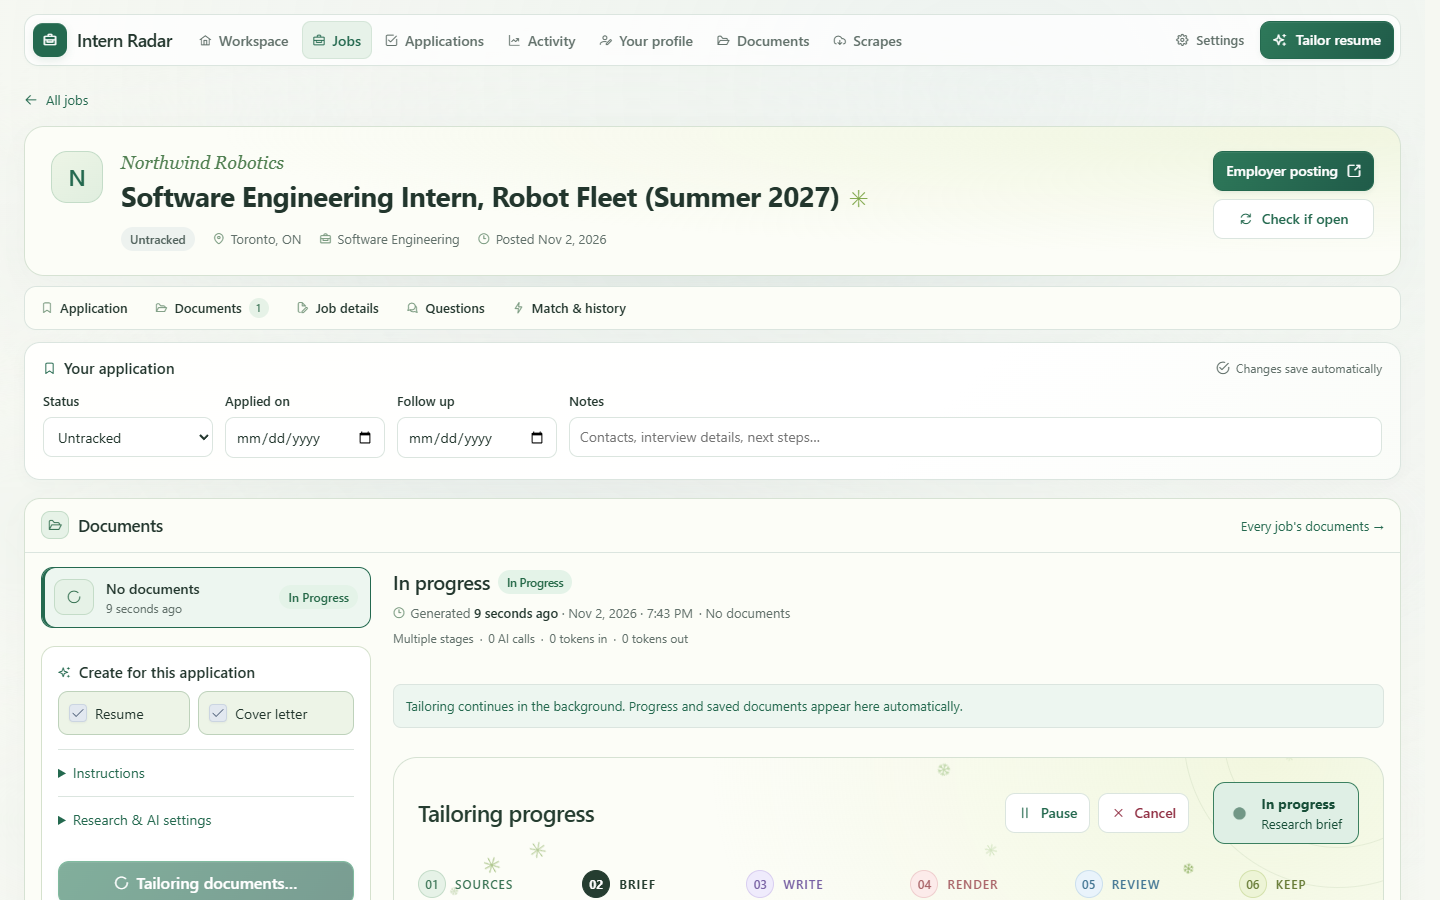
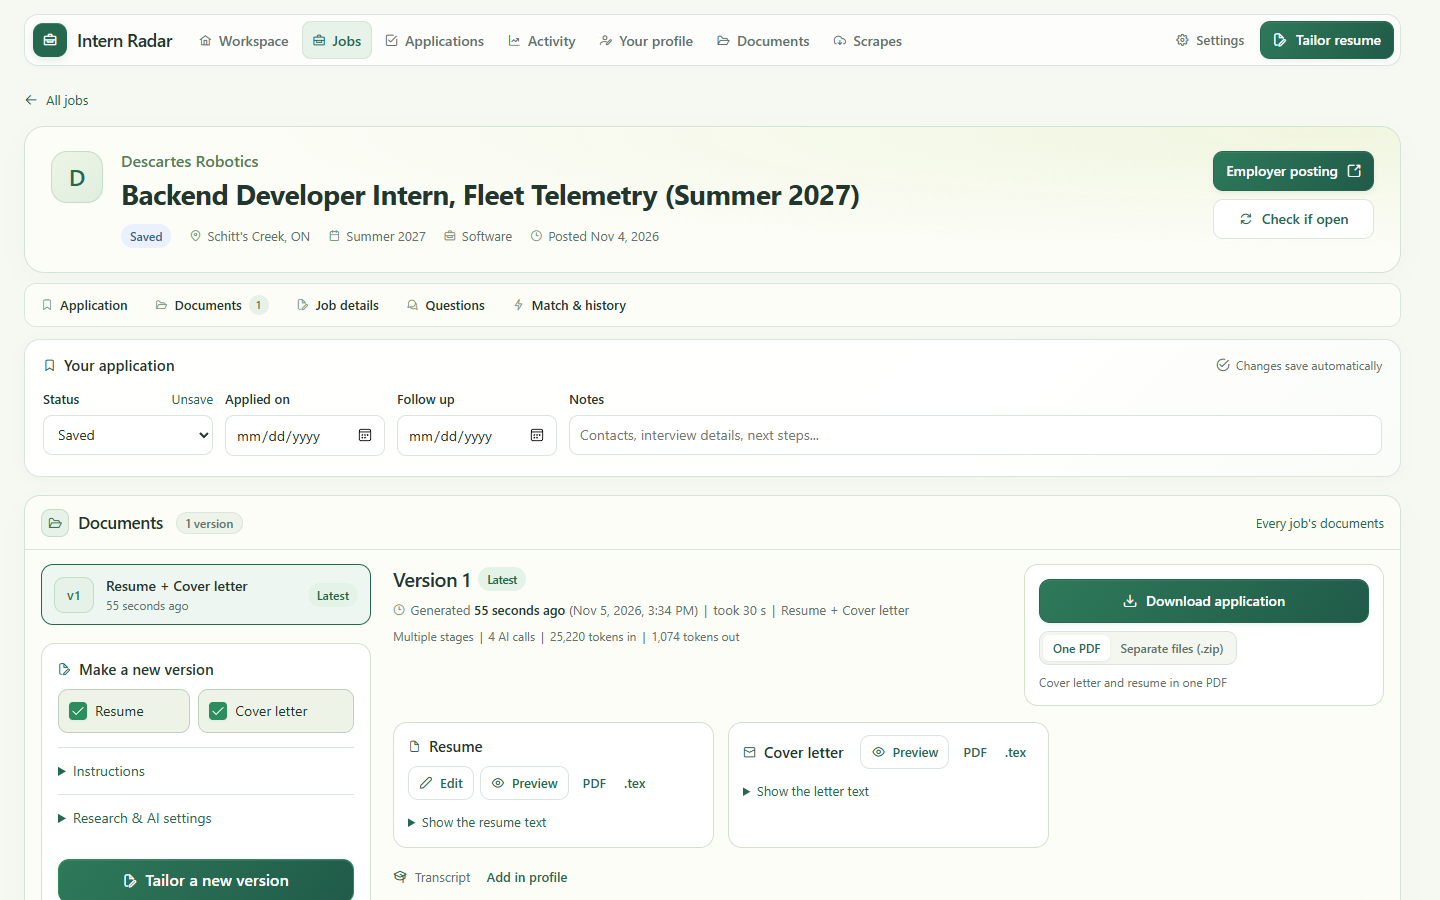
test: more normalization cases

diff --git a/frontend/src/app/jobs/match-panel/match-panel.scss b/frontend/src/app/jobs/match-panel/match-panel.scss
@@ -1,2 +1,139 @@
 :host {
   display: block;
+  min-width: 0;
+}
+summary {
+  display: flex;
+  align-items: center;
+  gap: 10px;
+  padding: 18px 20px;
+  cursor: pointer;
+  font-size: 14px;
+  font-weight: 600;
+  list-style: none;
+}
+summary::-webkit-details-marker {
+  display: none;
+}
+summary > .pi:first-child {
+  color: var(--accent);
+}
+.disclosure-chevron {
+  margin-left: auto;
+  color: var(--muted);
+  font-size: 12px;
+}
+.match-panel[open] .disclosure-chevron {
+  transform: rotate(180deg);
+}
+.match-panel.panel {
+  padding: 0;
+  border-radius: 16px;
+  background: #fcfdf7;
+}
+.match-panel > :not(summary) {
+  margin-inline: 20px;
+}
+.match-panel > :last-child {
+  margin-bottom: 18px;
+}
+.match-head {
+  display: flex;
+  align-items: center;
+  gap: 14px;
+}
+.match-head > div {
+  display: grid;
+  gap: 2px;
+}
+.match-score {
+  display: grid;
+  place-items: center;
+  width: 52px;
+  height: 52px;
+  border-radius: 50%;
+  border: 3px solid #d6e2d3;
+  font-size: 19px;
+  font-weight: 700;
+  font-variant-numeric: tabular-nums;
+}
+.match-head[data-band='strong'] .match-score {
+  border-color: #3f9d5f;
+  color: #1d6b39;
+}
+.match-head[data-band='good'] .match-score {
+  border-color: #7fb35f;
+  color: #3c6b23;
+}
+.match-head[data-band='fair'] .match-score {
+  border-color: #d2b24a;
+  color: #7a6216;
+}
+.match-reasons {
+  margin: 14px 0 0;
+  padding-left: 18px;
+  font-size: 13px;
+  line-height: 1.6;
+}
+.match-parts {
+  display: grid;
+  gap: 8px;
+  margin: 14px 0 0;
+  font-size: 13px;
+}
+.match-parts > div {
+  display: grid;
+  grid-template-columns: 86px minmax(0, 1fr);
+  align-items: center;
+  gap: 10px;
+}
+.match-parts dt {
+  color: var(--muted);
+}
+.match-parts dd {
+  display: flex;
+  align-items: center;
+  gap: 8px;
+  margin: 0;
+}
+.bar {
+  flex: 1 1 auto;
+  height: 6px;
+  border-radius: 999px;
+  background: #e8eee4;
+  overflow: hidden;
+}
+.bar > span {
+  display: block;
+  height: 100%;
+  border-radius: inherit;
+  background: var(--accent);
+}
+.value {
+  width: 26px;
+  text-align: right;
+  font-variant-numeric: tabular-nums;
+}
+.match-skills {
+  display: flex;
+  flex-wrap: wrap;
+  gap: 6px;
+  margin: 14px 0 0;
+}
+.skill-chip {
+  padding: 2px 8px;
+  border-radius: 999px;
+  background: #eef3ea;
+  font-size: 12px;
+}
+.hint {
+  color: var(--muted);
+  font-size: 12px;
+  line-height: 1.5;
+}
+.match-panel > .hint {
+  margin-top: 14px;
+}
+.match-empty {
+  margin-top: 0;
+}

diff --git a/backend/tests/scrape/test_normalization.py b/backend/tests/scrape/test_normalization.py
@@ -1,1 +1,46 @@
 from job_backend.jobs.models import Job
+from job_backend.persistence.database import Database
+from job_backend.persistence.session import Session
+from job_backend.scrape.pipeline.cache import ScrapeCache
+from job_backend.scrape.pipeline.constants import EXTRACTION_CACHE_SECONDS
+from job_backend.scrape.pipeline.models import (
+    FetchResult,
+    SharedExtraction,
+)
+from job_backend.scrape.pipeline.pipeline import scrape_source
+from tests.helpers import ADAPTER, StubNormalizer, listing, payload
+
+
+def test_cache_skips_unchanged(engine: Database) -> None:
+    normalizer = StubNormalizer()
+    data = payload(listing(), listing("second"))
+    for _ in range(2):
+        scrape_source(engine, ADAPTER, lambda _etag: FetchResult(data, None), normalizer=normalizer)
+    assert normalizer.calls == 2
+    changed = payload(listing(title="Changed Software Engineering Intern"), listing("second"))
+    result = scrape_source(
+        engine, ADAPTER, lambda _etag: FetchResult(changed, None), normalizer=normalizer
+    )
+    assert normalizer.calls == 3 and result.updated == 1 and result.unchanged == 1
+    with Session(engine) as session:
+        job = session.find(Job).first()
+        assert job is not None and job.extraction_fingerprint is not None
+    cached = ScrapeCache(engine).get(
+        SharedExtraction,
+        (job.extraction_fingerprint, normalizer.cache_key),
+        ttl_seconds=EXTRACTION_CACHE_SECONDS,
+    )
+    assert cached is not None
+    assert cached.document == {} and "jobs" in cached.result
+    assert job.raw_description
+    assert engine.gateway.find("normalization_cache", {}) == []
+    assert engine.gateway.find("shared_extractions", {}) == []
+
+
+def test_duplicate_ids_collapsed(engine: Database) -> None:
+    normalizer = StubNormalizer()
+    data = payload(listing(), listing())
+    run = scrape_source(
+        engine, ADAPTER, lambda _etag: FetchResult(data, None), normalizer=normalizer
+    )
+    assert normalizer.calls == 1 and run.created == 1

diff --git a/backend/src/job_backend/activity/service.py b/backend/src/job_backend/activity/service.py
@@ -1,1 +1,2 @@
 import time
+from datetime import date, datetime, timedelta
